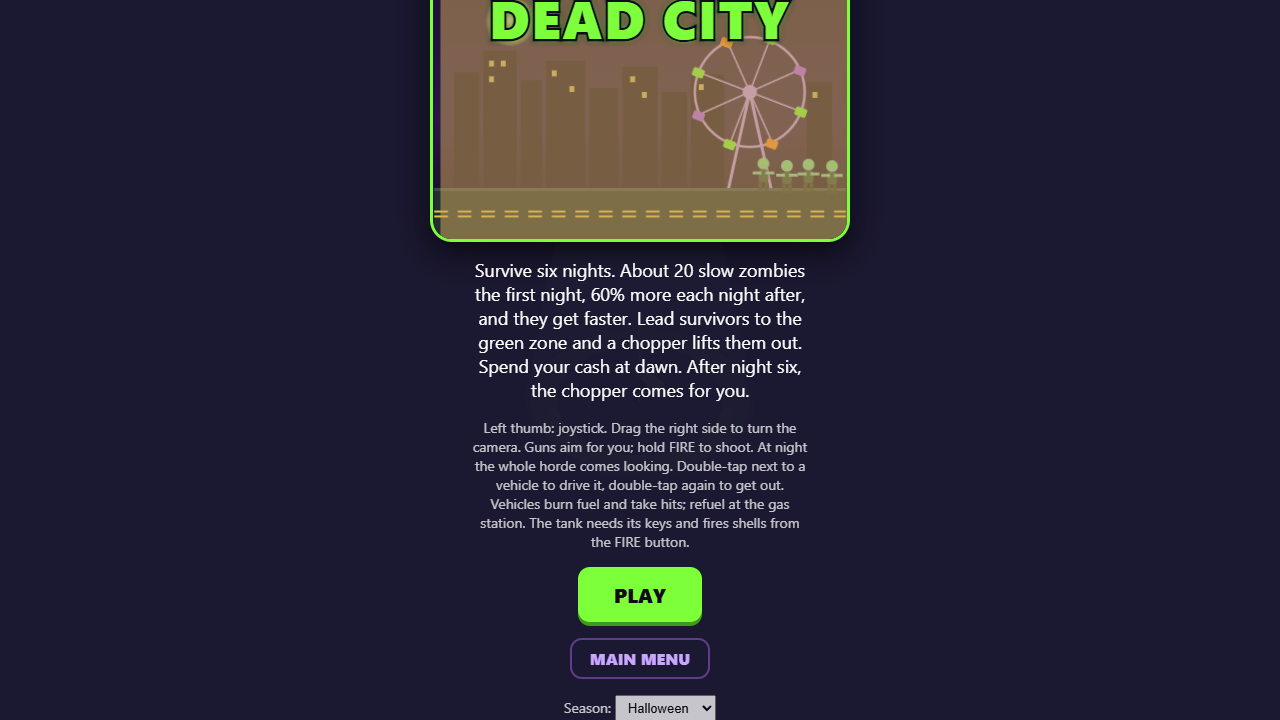
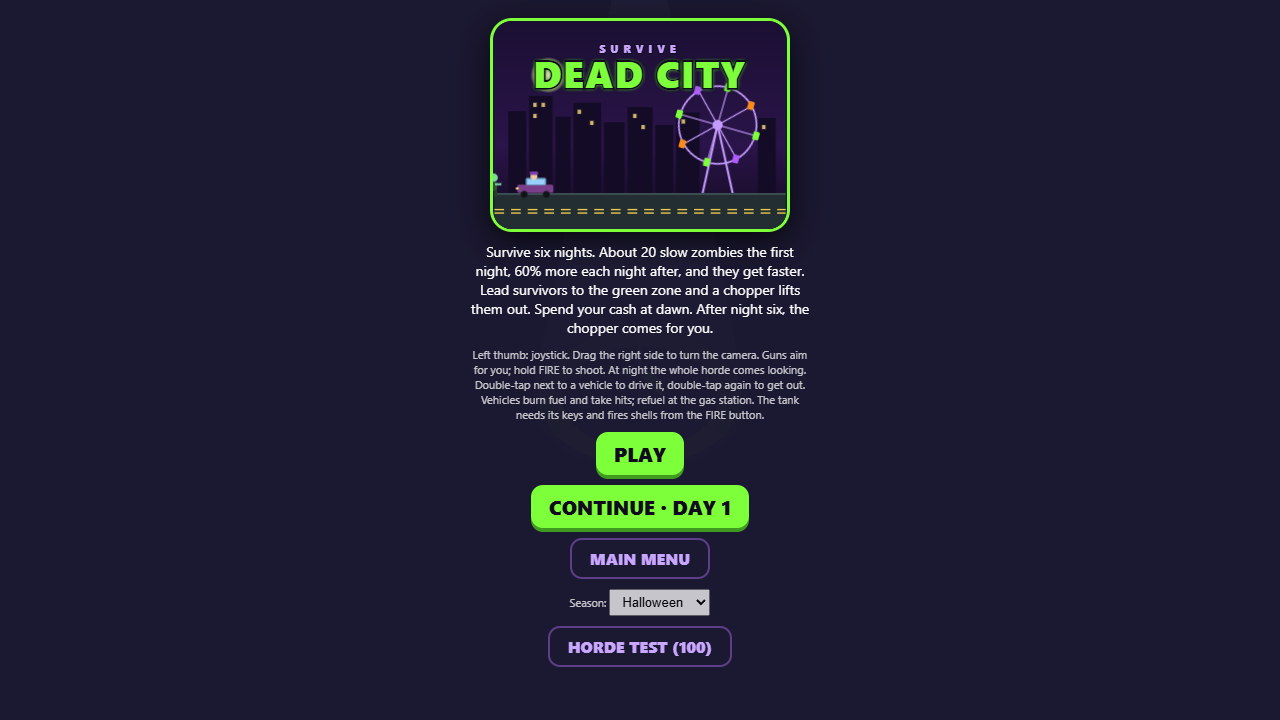
Start screen fits short viewports; refreshed itch package and screenshots

Changed region(s): [[0.3125, 0.0, 0.6875, 1.0]]

diff --git a/deadcity.html b/deadcity.html
@@ -30,6 +30,8 @@
     .act.trash { border-color: #7dff3a; }
     #msg { position: absolute; left: 50%; top: 22%; transform: translateX(-50%); font-weight: 800; font-size: 18px; text-align: center; text-shadow: 0 2px 6px #000; max-width: 80vw; }
     #dcStart p, #dcOver p { max-width: 340px; }
+    #dcStart { overflow-y: auto; justify-content: flex-start; padding-top: 18px; gap: 10px; }
+    @media (max-height: 820px) { #titleArt { width: min(60vw, 300px) !important; } #dcStart p { font-size: 14px; margin: 0; } #dcStart p.small { font-size: 11px; } #dcStart button { padding: 8px 18px; } }
   </style>
 </head>
 <body>

diff --git a/PROJECT-NOTES.md b/PROJECT-NOTES.md
@@ -109,3 +109,4 @@ Reference for continuing work after a context compaction. Everything here was tr
 - 2026-10-17: Fix: hunting zombies within 1 unit targeted their wander point instead of the player, so they ringed the player without biting. Now they close in directly.
 - 2026-10-18: Survival: lightning now warns with a pulsing blue ground ring 2.5 s ahead (pendingBolts) then lands a jagged multi-line bolt with a branch (boltLine, bolts[] 0.18 s flicker). Followers board cars and rides with you (boardFollowers: aboard flag, hidden, immune while aboard, dropped around you on exit). Driving draws the dead: carNoise grows while driving and spawns alerted zombies 6-14 units from the car every 3 s shrinking to 0.35 s (updateCarNoise, 8 placement tries, cap 150). Repair kits (1% drop, grey box) auto-restore car hp when it falls to a third (repairKits, saved). SCAN button sits at the right end of the mission row, 32px tall. Season default is 'random' (picked per world build). Skins: player skins cost 2, survivor skins 1 and up to NPC_MAX=10 can be equipped as a set (equipped.npc array; equippedSkin('npc') returns a random one per character).
 - 2026-10-18: Dead City start screen shows public/title.svg: animated logo (SURVIVE / DEAD CITY) with a spinning ferris wheel, zombies chasing the hero left to right then fleeing from his car right to left on a 12 s loop, two lightning flashes and a sandstorm sweep. release/itch/ holds the itch.io package material (not deployed).
+- 2026-10-18: Dead City start screen scales its title art and text on viewports under 820 px tall (desktop/itch embeds). release/: survive-dead-city-web.zip (dist, HTML upload) + release/itch/ (ITCH-PAGE.md copy and settings, cover-630x500.png, banner-960x400.png, six 1280x720 screenshots, original logo). Screenshots were captured with Playwright against the dev server from cover.html / banner.html and the games' debug hooks.
